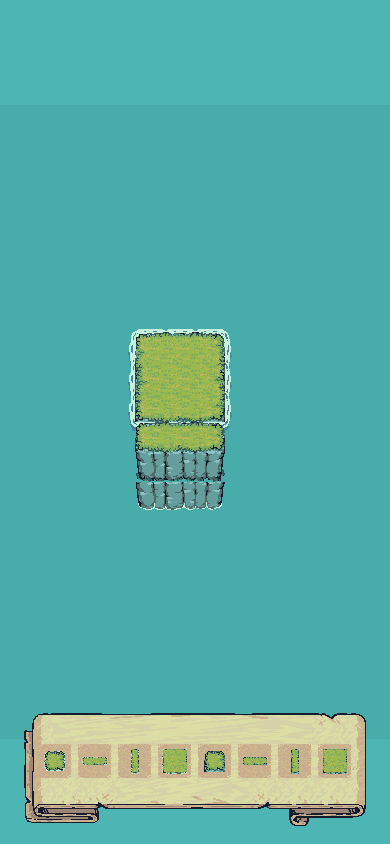
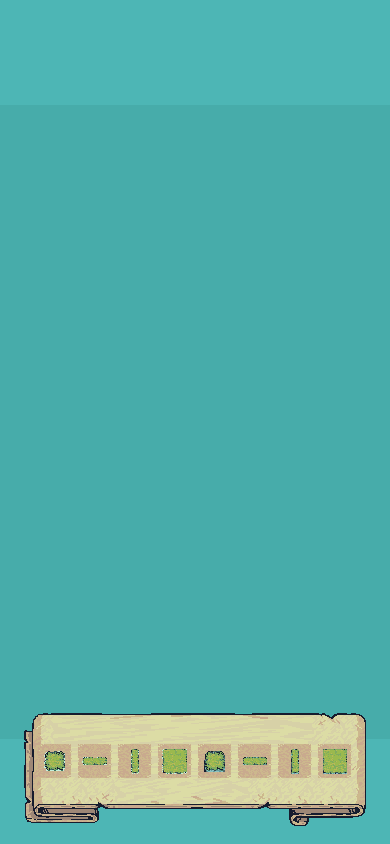
fix(web): remove default island

Changed region(s): [[0.3077, 0.3697, 0.6154, 0.6161]]

diff --git a/apps/web/src/test/sea-level-scene.test.ts b/apps/web/src/test/sea-level-scene.test.ts
@@ -2,7 +2,7 @@ import { describe, expect, it } from 'vitest';
 import { seaLevelScenePlan } from '../game/seaLevelScenePlan';
 
 describe('sea-level grass placement scene plan', () => {
-  it('uses a centered sea-level placement grid with one separate prebuilt island', () => {
+  it('uses a centered sea-level placement grid without a default island', () => {
     expect(seaLevelScenePlan).toEqual({
       tileSize: 64,
       grid: {
@@ -10,24 +10,7 @@ describe('sea-level grass placement scene plan', () => {
         rows: 8,
       },
       initialGrassPatches: [],
-      initialIslandPatches: [
-        {
-          id: 'initial-island',
-          shapeKey: 'nine',
-          anchor: { x: 4, y: 1 },
-          cells: [
-            { x: 4, y: 1 },
-            { x: 5, y: 1 },
-            { x: 6, y: 1 },
-            { x: 4, y: 2 },
-            { x: 5, y: 2 },
-            { x: 6, y: 2 },
-            { x: 4, y: 3 },
-            { x: 5, y: 3 },
-            { x: 6, y: 3 },
-          ],
-        },
-      ],
+      initialIslandPatches: [],
       grassTerrainFrames: {
         none: 10,
         top: 1,

diff --git a/apps/web/src/game/seaLevelScenePlan.ts b/apps/web/src/game/seaLevelScenePlan.ts
@@ -8,24 +8,7 @@ export const seaLevelScenePlan = {
     rows: 8,
   },
   initialGrassPatches: [] satisfies GrassPatch[],
-  initialIslandPatches: [
-    {
-      id: 'initial-island',
-      shapeKey: 'nine',
-      anchor: { x: 4, y: 1 },
-      cells: [
-        { x: 4, y: 1 },
-        { x: 5, y: 1 },
-        { x: 6, y: 1 },
-        { x: 4, y: 2 },
-        { x: 5, y: 2 },
-        { x: 6, y: 2 },
-        { x: 4, y: 3 },
-        { x: 5, y: 3 },
-        { x: 6, y: 3 },
-      ],
-    },
-  ] satisfies GrassPatch[],
+  initialIslandPatches: [] satisfies GrassPatch[],
   grassTerrainFrames: {
     none: 10,
     top: 1,

diff --git a/docs/ai-usage-log.md b/docs/ai-usage-log.md
@@ -281,3 +281,11 @@
 - 测试过程：新增 `prebuilt-island` 测试覆盖箭头图对应的四段合并输出；保留现有普通草地和二层地形测试边界。
 - 验证：`pnpm --filter web test` 75/75 通过；`pnpm --filter web lint`、`pnpm --filter web typecheck` 和 `pnpm --filter web build` 通过。Playwright 本地桌面与移动截图均渲染新的第一层合并海岛，`Tilemap_color1.png`、`Water Foam.png` 正常加载，底部 banner 视觉保持原状，水浪动画继续播放。
 - 隐私检查：未记录访问密钥、Token、数据库连接串或其他秘密信息。
+
+## 2026-07-26：移除默认第一层海岛
+
+- 任务摘要：用户要求“把岛去掉”。
+- AI 贡献：将 `seaLevelScenePlan.initialIslandPatches` 改为空数组，默认 `/game` 不再渲染第一层预制海岛；保留预制海岛模块以供后续需要时复用。HUD banner/slots 未修改。
+- 测试过程：先把场景计划测试改为期望没有默认海岛，观察到旧配置仍包含 `initial-island` 的失败，再清空默认岛配置使测试通过。
+- 验证：`pnpm --filter web test` 75/75 通过；`pnpm --filter web lint`、`pnpm --filter web typecheck` 和 `pnpm --filter web build` 通过。Playwright 本地桌面与移动截图确认岛已消失，底部 banner 保持显示；无 console/request error。
+- 隐私检查：未记录访问密钥、Token、数据库连接串或其他秘密信息。
